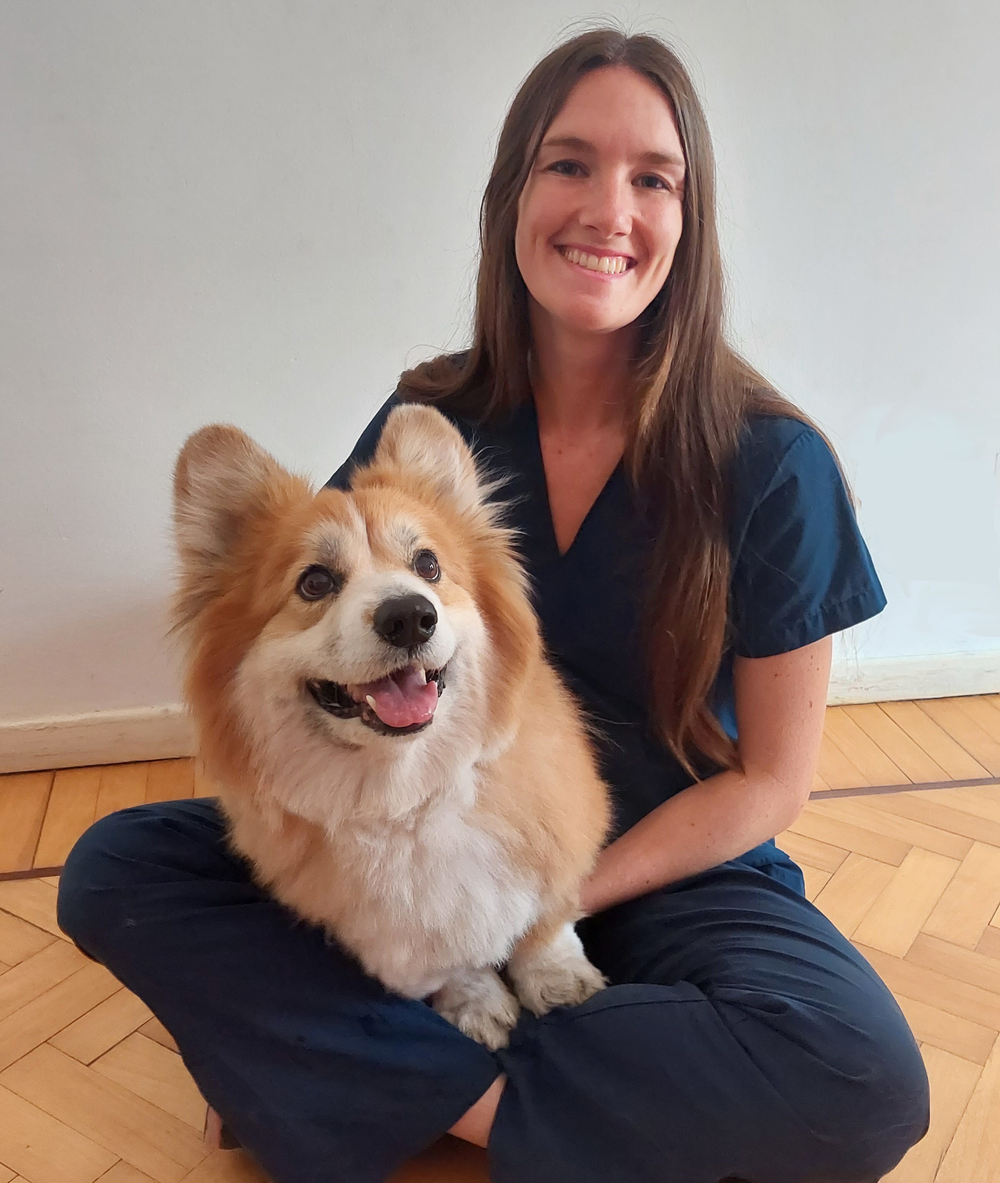
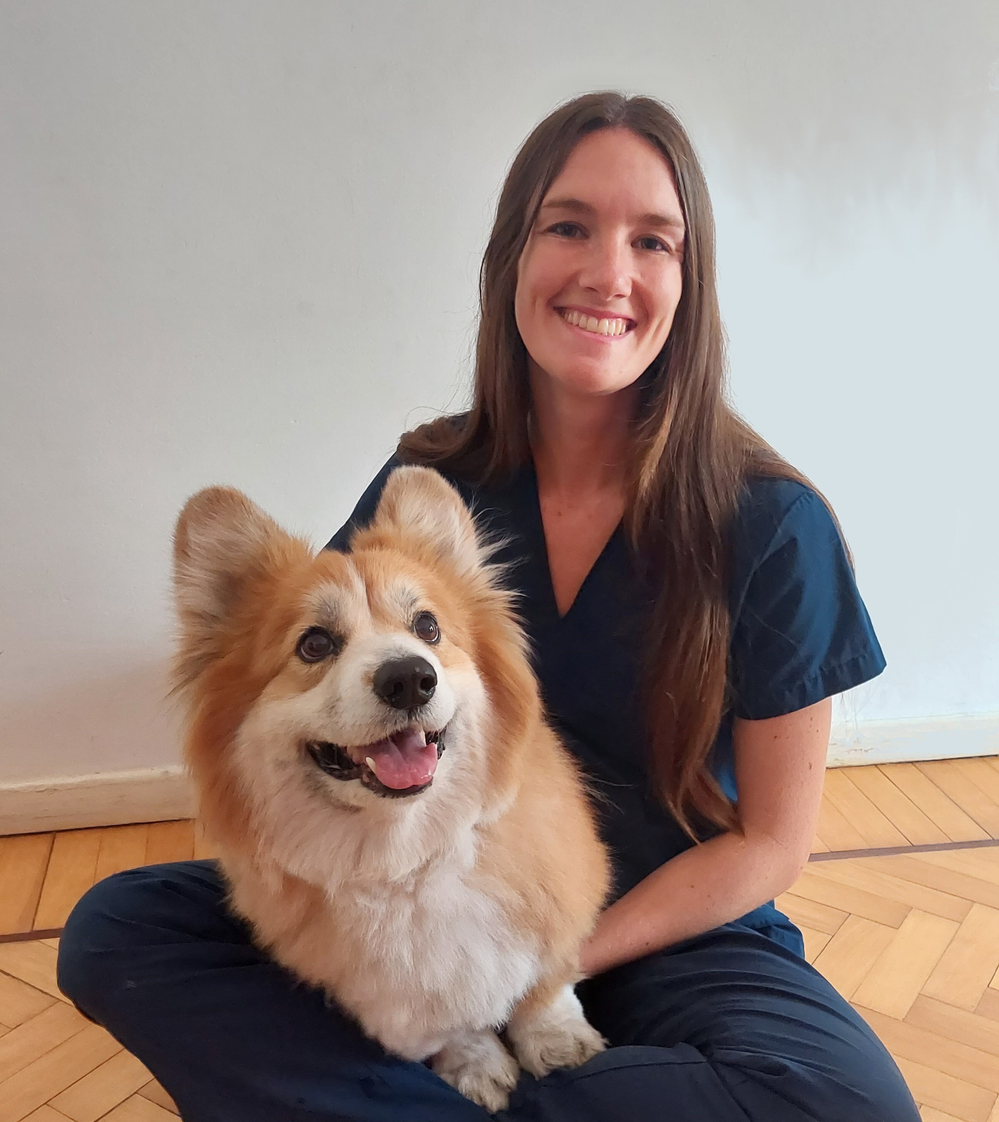
fix -> special chars and typos

diff --git a/next-app/pages/about.tsx b/next-app/pages/about.tsx
@@ -1,7 +1,7 @@
 import Layout from '@/components/Layout/Layout'
 import Container from '@/components/Container'
 import Photo from '@/components/Photo'
-import { BsInstagram } from 'react-icons/bs'
+import IgLogo from '../public/svgs/ig_logo.svg'
 import { FC } from 'react'
 
 export default function About() {
@@ -23,14 +23,14 @@ export default function About() {
             grandes y pequeños
           </p>
           <p className="px-2 text-center text-xl sm:px-16">
-            🍖 Me especializo en nutricion de felinos y caninos, atendiendo
+            🍖 Me especializo en nutrición de felinos y caninos, atendiendo
             casos clinicos y brindando soluciones para mejorar las dietas de mis
             pacientes
           </p>
           <p className="px-2 text-center text-xl sm:px-16">
-            <BsInstagram className="mb-1 mr-1 inline text-lg" />
-            Ademas de las asesorias realizo divulgacion de buenas practicas y
-            recomendaciones para la nutricion animal en{' '}
+            <IgLogo className="mb-1 mr-1 inline aspect-square h-5 w-5" /> Además
+            de las asesorías realizo divulgación de buenas pr+acticas y
+            recomendaciones para la nutrición animal en{' '}
             <a
               href="https://www.instagram.com/vr.veterinaria/"
               target="_blank"
@@ -43,7 +43,7 @@ export default function About() {
         </div>
         <div className="mt-8 px-2">
           <p className="-mb-4 text-xl font-bold sm:mb-4">
-            Algunos cursos y capacitaciones en los que participe:
+            Algunos cursos y capacitaciones en los que participé:
           </p>
           <ul className="pl-2 sm:list-disc sm:pl-8">
             <Curso
@@ -89,6 +89,7 @@ export default function About() {
               type="Curso"
               title="Microbiota intestinal"
               institution="Christian Vergara"
+              inCourse
             />
             <Curso
               type="Curso"
@@ -107,7 +108,7 @@ export default function About() {
       </Container>
       <Photo
         src="/photos/veroyleon2.jpg"
-        alt="con leon mi perrito"
+        alt="con leon, mi perrito"
         className="border-terciary/50 m-auto mt-4 w-64 border-2 shadow-2xl"
       />
     </Layout>

diff --git a/next-app/pages/clinica.tsx b/next-app/pages/clinica.tsx
@@ -2,7 +2,6 @@ import Layout from '@/components/Layout/Layout'
 import Image from 'next/image'
 import Container from '@/components/Container'
 import { ChangeEvent, FormEvent, useState } from 'react'
-import { motion, AnimatePresence } from 'framer-motion'
 import Photo from '@/components/Photo'
 import useSendingStatus from '@/hooks/useSendingStatus'
 import SendButton from '@/components/SendButton'
@@ -82,7 +81,7 @@ export default function Clinica() {
               </div>
             </div>
             <div className="w-96 max-w-full grow" id="zonas-clinica">
-              <h4 className="text-center text-xl">Buenos Aires</h4>
+              <h4 className="text-center text-xl">Buenos Aires, zona norte</h4>
               <div className="relative m-auto aspect-square w-full">
                 <div className="absolute inset-0 z-10 rounded-md p-4 opacity-0 transition-all hover:bg-black/80 hover:opacity-100">
                   <ul className="flex-center flex h-full shrink flex-wrap items-center justify-evenly gap-6 text-lg font-bold text-stone-100">

diff --git a/next-app/components/Layout/Footer.tsx b/next-app/components/Layout/Footer.tsx
@@ -4,7 +4,7 @@ import { MdOutlineReportProblem } from 'react-icons/md'
 export default function Footer() {
   return (
     <footer className="to-terciary from-terciary/10 text-primary relative mt-8 hidden h-24 w-full flex-col items-center justify-start bg-gradient-to-b p-6 sm:flex">
-      <p>Veronica Roffo - Veterinaria MN 10468</p>
+      <p>Verónica Roffo - Veterinaria MN 10468</p>
       <p>&copy; 2023 - Buenos Aires, Argentina</p>
       <div className="absolute bottom-0 left-1 flex flex-col items-start text-right text-xs">
         <p>Vectors and icons by </p>

diff --git a/next-app/styles/globals.css b/next-app/styles/globals.css
@@ -7,8 +7,6 @@
   padding: 0;
   margin: 0;
   -ms-overflow-style: none;
-  /* scrollbar-color: transparent transparent;
-  scrollbar-width: none; */
 }
 
 html,
@@ -25,17 +23,4 @@ body {
     color-scheme: dark;
   }
 }
-
-/* *::-webkit-scrollbar {
-  width: 0;
-}
-
-*::-webkit-scrollbar-track {
-  background: transparent;
-}
-
-*::-webkit-scrollbar-thumb {
-  background: transparent;
-  border: none;
-} */
 

diff --git a/next-app/components/Photo.tsx b/next-app/components/Photo.tsx
@@ -15,7 +15,13 @@ const Photo: FC<PhotoProps> = ({ src, alt, className, ...props }) => {
   )
   return (
     <div className={twStyle} {...props}>
-      <Image src={src} alt={alt} fill blurDataURL={src} />
+      <Image
+        src={src}
+        alt={alt}
+        fill
+        blurDataURL={src}
+        className="object-cover"
+      />
     </div>
   )
 }
